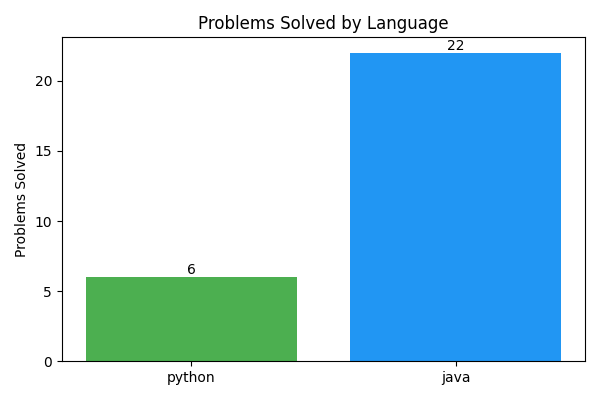
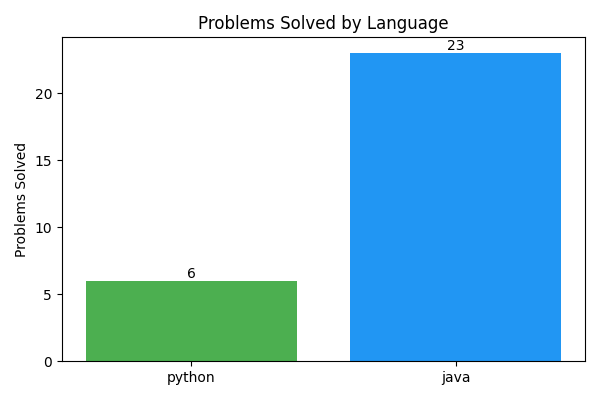
429-binary-tree-level-order-traversal

diff --git a/medium/429-n-ary-tree-level-order-traversal/solution/Solution.java b/medium/429-n-ary-tree-level-order-traversal/solution/Solution.java
@@ -1,0 +1,39 @@
+/**
+ * Definition for a binary tree node.
+ * public class TreeNode {
+ *     int val;
+ *     TreeNode left;
+ *     TreeNode right;
+ *     TreeNode() {}
+ *     TreeNode(int val) { this.val = val; }
+ *     TreeNode(int val, TreeNode left, TreeNode right) {
+ *         this.val = val;
+ *         this.left = left;
+ *         this.right = right;
+ *     }
+ * }
+ */
+import java.util.*;
+
+class Solution {
+    public List<List<Integer>> levelOrder(TreeNode root) {
+        ArrayDeque<TreeNode> q = new ArrayDeque<>();
+        List<List<Integer>> result = new ArrayList<>();
+
+        if(root != null) q.add(root);
+
+        while(!q.isEmpty()){
+            int levelLength = q.size();
+            List<Integer> levelValues = new ArrayList<>();;
+            for(int i =0; i < levelLength; i++){
+                TreeNode curr = q.removeFirst();
+                if(curr.left != null) q.add(curr.left);
+                if(curr.right != null) q.add(curr.right);
+                levelValues.add(curr.val);
+            }
+            result.add(levelValues);
+        }
+
+        return result;
+    }
+}

diff --git a/medium/429-n-ary-tree-level-order-traversal/README.md b/medium/429-n-ary-tree-level-order-traversal/README.md
@@ -1,0 +1,68 @@
+# 429. N-ary Tree Level Order Traversal
+
+**Difficulty:** Medium  
+**Link:** [https://leetcode.com/problems/n-ary-tree-level-order-traversal/](https://leetcode.com/problems/n-ary-tree-level-order-traversal/)
+
+## Problem Description
+
+Given an n-ary tree, return the 
+level order
+ traversal of its nodes' values.
+
+
+Nary-Tree input serialization is represented in their level order traversal, each group of children is separated by the null value (See examples).
+
+
+ 
+
+
+Example 1:
+
+
+
+
+
+
+Input:
+ root = [1,null,3,2,4,null,5,6]
+
+Output:
+ [[1],[3,2,4],[5,6]]
+
+
+
+Example 2:
+
+
+
+
+
+
+Input:
+ root = [1,null,2,3,4,5,null,null,6,7,null,8,null,9,10,null,null,11,null,12,null,13,null,null,14]
+
+Output:
+ [[1],[2,3,4,5],[6,7,8,9,10],[11,12,13],[14]]
+
+
+
+ 
+
+
+Constraints:
+
+
+
+
+The height of the n-ary tree is less than or equal to 
+1000
+
+
+The total number of nodes is between 
+[0, 10
+4
+]
+
+
+
+

diff --git a/README.md b/README.md
@@ -15,6 +15,8 @@ My solutions to LeetCode problems in Python and Java
 
 
 
+
+
 ## 📊 Problem Distribution
 ![By Difficulty and Language](assets/progress_difficulty_language.png)
 ![By Difficulty (Pie)](assets/pie_difficulty.png)
